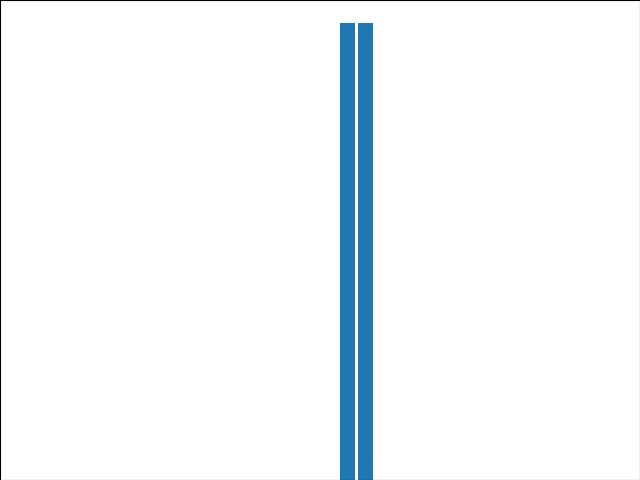
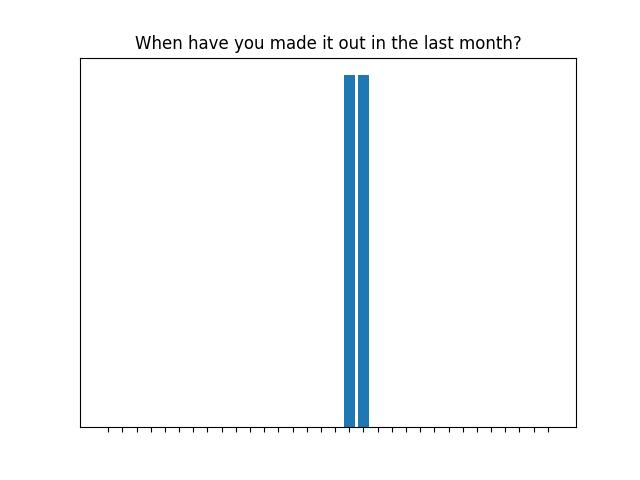
css styling first commit

diff --git a/static/css/style.css b/static/css/style.css
@@ -1,6 +1,17 @@
+:root {
+    --main-grey: #3d3a4b;
+    --darkish-grey: #6d6a77;
+    --lighter-grey: #9d9aa3;
+    --offwhite: #fcfafa;
+    --lightest-grey: c8d3d5;
+    --grey-blue: #a4b8c4;
+    --accent-green: #0cca4a;
+}
+
 body {
     padding: 0;
     margin: 0;
+    font-family: Arial, Helvetica, sans-serif;
 }
 
 #page-wrapper {
@@ -9,14 +20,30 @@ body {
     height: 120vh;
 }
 
+#nav-logo {
+    color:#0cca4a;
+    font-weight: bolder;
+    margin-right: auto;
+    font-size: large;
+}
+
+#corbett-banner {
+    width: 120%;
+    border-bottom: solid 2px #a4b8c4;
+    margin-bottom: 2rem;
+}
+
 li {
     list-style-type: none;
     
 }
 
 nav {
-    background-color: red;
+    background-color: var(--main-grey);
     display: flex;
+    font-family: 'Courier New', Courier, monospace;
+    color: white;
+    border-bottom: solid 1px #0cca4a;
 }
 
 nav ul {
@@ -25,6 +52,8 @@ nav ul {
     padding: 1rem;
     justify-content: flex-end;
     gap: 1rem;
+    width: 100%;
+    align-items: center;
 }
 
 nav>ul>li:first-child {
@@ -33,6 +62,7 @@ nav>ul>li:first-child {
 
 a {
     text-decoration: none;
+    color: #fcfafa;
 }
 
 .dropdown {
@@ -43,7 +73,8 @@ a {
     display: flex;
     flex-direction: column;
     position: absolute;
-    background: red;
+    background: #a4b8c4;
+    border-radius: 0.1rem;
 }
 
 .submenu {
@@ -61,18 +92,21 @@ a {
 }
 
 main {
-    background: url("/static/images/background_vtransp.png");
+    background: #6d6a77;
     width: 100%;
-    padding: 0 2rem;
     flex: 1;
+    display: flex;
+    flex-direction: column;
+    align-items: center;
 }
 
 footer {
     width: 100%;
-    background-color: red;
+    background-color: #3d3a4b;
     display: flex;
     color: white;
     justify-content: center;
+    border-top: solid 1px #0cca4a;
 }
 
 footer ul{
@@ -101,4 +135,39 @@ th, td {
 
 header {
     width: 100%;
+}
+
+.start-intro {
+    padding: 0 3rem;
+    color:#fcfafa;
+    text-shadow: 1px 1px #3d3a4b;
+    text-align: center;
+    font-size: larger;
+}
+
+table {
+    color:#fcfafa;
+}
+
+.page-header {
+    text-align: center;
+    font-size: x-large;
+    color: #3d3a4b;
+    background-color: #a4b8c4;
+    text-shadow: 2px 2px #9d9aa3;
+    padding: 1rem;
+    border-radius: 0.2rem;
+}
+
+#corbett-table {
+    margin: 0 1rem;
+    padding: 1rem;
+}
+
+th {
+    background-color: #3d3a4bb5;
+}
+
+td {
+    padding: 3px;
 }

diff --git a/templates/index.html b/templates/index.html
@@ -1,4 +1,18 @@
-{% extends 'base.html' %}
-{% block main %}
+{% extends 'base.html' %} {% block main %}
+<img
+  id="corbett-banner"
+  src="/static/images/corbett-banner.jpeg"
+  alt="corbett banner"
+/>
+<p id="start-def" class="start-intro">
+  Corbett. / (ˈkɔːbət) / noun. mountaineering any separate mountain peak between
+  2500 feet and 3000 feet high: originally used of Scotland only, but now
+  sometimes extended to other parts of the British Isles. Slang.
+</p>
+<p class="start-intro">
+  The less well know siblings of the Munros, their summits vary in altitude
+  between 762m and 914m. At current reckoning there are 222 to bag, and so far
+  678 people have climbed them all.
+</p>
+<p class="start-intro">Are you going to be the next Corbiteer?</p>
 {% endblock main %}
-{% block footer %}{% endblock footer %}

diff --git a/templates/base.html b/templates/base.html
@@ -15,8 +15,8 @@
       <header>
         {% block header %}
         <nav>
-          <ul id="menu">
-            <a href="/">Climb Corbetts</a>
+          <ul>
+            <a id="nav-logo" href="/">Climb Corbetts</a>
             <li><a href="/hills">Hills</a></li>
             <li><a href="/ascents">Ascents</a></li>
             <li class="dropdown">

diff --git a/templates/hills/index.html b/templates/hills/index.html
@@ -1,8 +1,6 @@
 {% extends 'base.html' %} {% block main %}
-<h1>Hello corbeteers</h1>
-<h2>Search by name:</h2>
-form 
-<table>
+<h1 class="page-header">The Corbetts</h1>
+<table id="corbett-table">
   <tr>
     <th>Name</th>
     <th>Height</th>

diff --git a/templates/climbers/show.html b/templates/climbers/show.html
@@ -38,4 +38,5 @@
 <h2>{{ total_m_climbed }} m</h2>
 <h3>Been on a climb?</h3>
 <button><a href="/ascents/new">Add a new ascent</a></button>
+<img src="/static/images/monthly_plot.jpg" alt="monthly activity chart">
 {% endblock main %}

diff --git a/repositories/climber_repository.py b/repositories/climber_repository.py
@@ -77,7 +77,7 @@ def amount_completed(id):
     return [len(climbs), math.ceil(len(climbs) / 222 * 100)]
 
 
-def monthly_bar(id):
+""" def monthly_bar(id):
     sql = "select CAST (date as varchar) from ascents where date >= (current_date - 30) and date < current_date and climber_id = %s group by date, climber_id"
     values = [id]
     results = run_sql(sql, values)
@@ -92,9 +92,10 @@ def monthly_bar(id):
             if day == result[0]:
                 days.update({day: 1})
     df = pandas.DataFrame(list(days.items()))
-    fig = pyplot.figure()
-    ax = fig.add_axes([0, 0, 1, 1])
-    ax.bar(df[0], df[1])
+    pyplot.bar(df[0], df[1])
+    pyplot.tick_params(left = False, labelleft = False, labelbottom=False)
+    pyplot.title('When have you made it out in the last month?')
+    pyplot.xticks(rotation = 30, ha='right')
     pyplot.savefig("./static/images/monthly_plot.jpg")
     # pdb.set_trace()
-    return
+    return """

diff --git a/contollers/climbers_controller.py b/contollers/climbers_controller.py
@@ -61,5 +61,5 @@ def show_climber(id):
     hills = hill_repo.select_all()
     total_m_climbed = climber_repo.total_climbing_height(id)
     percent_completed = climber_repo.amount_completed(id)
-    monthly_bar_chart = climber_repo.monthly_bar(id)
+    # climber_repo.monthly_bar(id)
     return render_template("/climbers/show.html", climber=climber, ascents=ascents, climbs=climbs, hills=hills, total_m_climbed=total_m_climbed, percent_completed=percent_completed)
